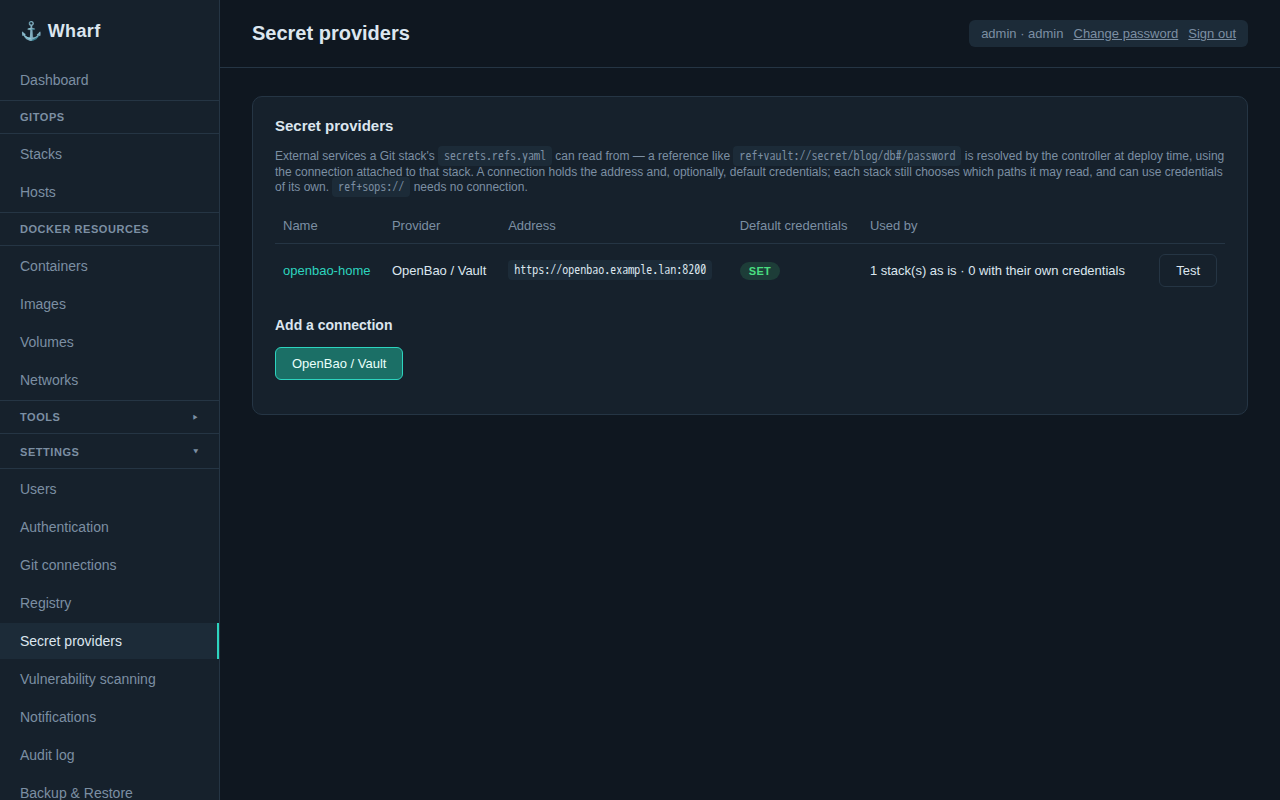
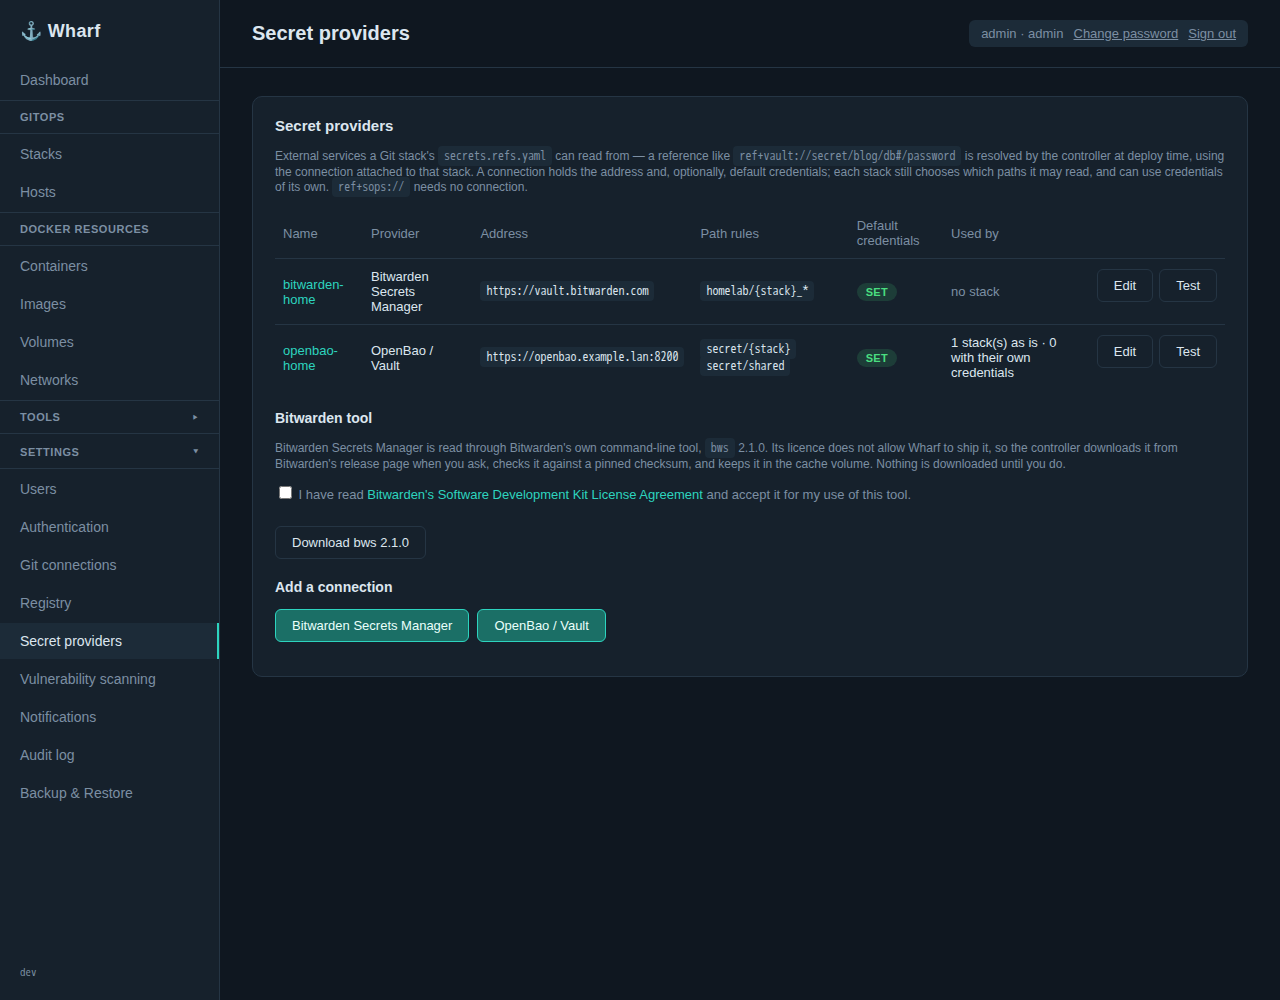
docs: refresh screenshots, show extra paths on the path rules page

diff --git a/docs/guide/path-rules.md b/docs/guide/path-rules.md
@@ -1,0 +1,176 @@
+# Path rules
+
+A Git stack's `secrets.refs.yaml` says which secrets it reads, and it lives in Git: whoever can push to that repository chooses the paths. **Path rules** are how you decide, once, on a [secret connection](/guide/secret-providers), what every stack that uses it may read, so that `blog` cannot read the secrets of `shop`, whatever its file says.
+
+A rule is checked by the controller on every deploy, before anything is read from the provider. A reference outside the rules fails the deployment without ever reaching OpenBao or Bitwarden.
+
+## Where to set them
+
+**Settings → Secret providers →** open a connection (or add one) **→ Path rules**. One rule per line. Rules are optional: a connection without any behaves as it always did, with allowed paths typed [stack by stack](/guide/secret-providers#_3-attach-it-to-a-stack).
+
+Once a connection has rules, attaching a stack needs no path at all. The stack's page shows what the rules give it, for instance `homelab/blog_*`, on the **Secret references** panel.
+
+## How a rule reads
+
+A rule is a path, split into segments by `/`, with two things you can use in it:
+
+| In a rule | Means |
+|---|---|
+| `{stack}` | The stack's id (see [below](#the-stack-id)) |
+| `*` | Any characters, **inside one segment** only. It never crosses a `/` |
+
+A rule allows what it names **and everything below it**: `secret/{stack}` lets the stack `blog` read `secret/blog` and `secret/blog/db`. Comparison is case-sensitive.
+
+## The stack id
+
+`{stack}` is the stack's **id**, not its name: the lowercase text in its address (`/stacks/my-blog`). Wharf makes it from the name when you create the stack, and it never changes afterwards, so renaming a stack does not break its secrets.
+
+| Stack name | Stack id |
+|---|---|
+| `blog` | `blog` |
+| `My Blog` | `my-blog` |
+| `Pi-hole` | `pi-hole` |
+| `Home Assistant` | `home-assistant` |
+| `uptime_kuma` | `uptimekuma` (characters other than letters, digits and `-` are dropped) |
+
+The binding form and the stack's page show the rule with the id already put in, so you can see exactly what a stack is given.
+
+## Examples
+
+### OpenBao or Vault: a folder per stack
+
+Rule: `secret/{stack}`
+
+You keep each stack's secrets under `secret/<stack>/…`:
+
+```yaml
+# stack "blog"
+DB_PASSWORD: ref+vault://secret/blog/db#/password
+```
+
+| Stack | Reference | Allowed |
+|---|---|---|
+| `blog` | `secret/blog/db` | yes |
+| `blog` | `secret/blog` | yes |
+| `blog` | `secret/shop/db` | no, another stack's folder |
+| `blog` | `secret/blogger/db` | no, a different folder that happens to start the same way |
+| `blog` | `secret/blog-staging/db` | no, that is the stack `blog-staging` |
+
+### OpenBao or Vault: a folder per stack, and one shared folder
+
+Rules:
+
+```
+secret/{stack}
+secret/shared
+```
+
+Every stack reads its own folder and `secret/shared` (an SMTP password everyone uses, say). A rule with no `{stack}` is simply a fixed path that every stack on the connection may read. Use this only for secrets that really are common to all of them.
+
+### Bitwarden Secrets Manager: a project per stack
+
+Rule: `{stack}`
+
+Name each project after its stack:
+
+```yaml
+# stack "blog"
+DB_PASSWORD: ref+bws://blog/db_password#/value
+```
+
+| Stack | Reference | Allowed |
+|---|---|---|
+| `blog` | `blog/db_password` | yes |
+| `shop` | `blog/db_password` | no |
+
+This needs one project per stack, which goes beyond Bitwarden's free plan (three projects at the time of writing).
+
+### Bitwarden Secrets Manager: one shared project, secrets named after the stack
+
+Rule: `homelab/{stack}_*`
+
+Everything lives in one project, `homelab`, and each secret's key starts with its stack's id and an underscore. This works on the free plan.
+
+```yaml
+# stack "blog"
+DB_PASSWORD:   ref+bws://homelab/blog_db_password#/value
+SMTP_PASSWORD: ref+bws://homelab/blog_smtp#/value
+```
+
+| Stack | Reference | Allowed |
+|---|---|---|
+| `blog` | `homelab/blog_db_password` | yes |
+| `blog` | `homelab/blog_smtp` | yes |
+| `blog` | `homelab/shop_smtp` | no, named after another stack |
+| `blog` | `homelab/blogger_db` | no |
+| `blog` | `homelab/blog-staging_db` | no, that is `blog-staging`'s |
+| `blog-staging` | `homelab/blog-staging_db` | yes |
+| `blog-staging` | `homelab/blog_db` | no |
+
+::: warning The rule is the only wall here
+Bitwarden gives a machine account access to a whole project. With one shared project the token used by Wharf can read every stack's secrets, and the rule is the only thing that keeps `blog` away from `shop`'s. If that is not enough, use a project per stack.
+:::
+
+### A shared secret on top of a stack's own
+
+Rules:
+
+```
+homelab/{stack}_*
+homelab/shared_*
+```
+
+Secrets named `shared_smtp`, `shared_registry`… in the same project are readable by every stack, next to each stack's own `blog_…` ones.
+
+### Any provider whose paths start with a container name
+
+Rule: `*/{stack}_*`
+
+The first segment can be a wildcard when it is not the part that tells stacks apart: `Perso/blog_db` and `Work/blog_db` are both allowed for `blog`, `Perso/shop_db` is not.
+
+## Extra paths for one stack
+
+Once a connection has rules, a stack can still be given more by an administrator, in the paths box of its attachment form (titled **Extra paths (optional)** when the connection has rules, **Allowed paths** when it has none): for instance `kv/common` for one stack that needs a secret the others do not.
+
+![The paths box of a stack whose connection has rules](/screenshots/path-rules-extra.png)
+
+- They add to the rules, they never replace them.
+- A lone `*` is refused there: it would give the stack everything, which is what rules exist to prevent.
+- If several stacks need the same extra path, a second rule on the connection (`kv/common`) is simpler.
+
+## Rules that are refused
+
+They are checked when you save, because each one would let a stack read what it should not:
+
+| Rule | Why it is refused |
+|---|---|
+| `{stack}-*` | `-` can be part of a stack id: `blog` would read `blog-staging-db`, which belongs to `blog-staging`. The id must be followed by `/`, `_` or the end of the rule. `{stack}x` and `{stack}*` fail for the same reason |
+| `*` or `*/*` | Allows every path. A rule made only of `*` is no rule |
+| `a**b` | Use a single `*` |
+| `../{stack}`, `a//b`, `/{stack}`, `{stack}/` | `..`, empty segments and leading or trailing slashes are not allowed |
+| `{name}_*` | `{stack}` is the only placeholder |
+
+`_` and `/` are safe after `{stack}` because a stack id never contains them.
+
+## When a deploy fails
+
+The deployment output names the key and the rule that applied:
+
+```
+DB_PASSWORD (bws://): path "homelab/shop_db" is outside the prefixes allowed for this stack (rule homelab/blog_*)
+```
+
+Check, in this order:
+
+1. **The id.** The rule has `blog` put in it, not the stack's name. `My Blog` is `my-blog`.
+2. **The spelling and the case.** `Blog_db` does not match `blog_*`.
+3. **The separator.** With `homelab/{stack}_*`, the key must start with `blog_`: `blog-db` or `blogdb` do not.
+4. **The number of segments.** For Bitwarden a reference is exactly `project/key`.
+5. **The rule is read at the next deploy.** Saving a rule changes nothing for a stack until it deploys again.
+
+## Good to know
+
+- **Adding rules to a connection that already has stacks:** a stack attached with a `*` before no longer gets everything once the connection has rules. A stack whose allowed paths are specific keeps them, on top of the rules.
+- **The Test button** only logs in to the provider; it does not check rules.
+- **Rules come on top of the provider's own protections**, they do not replace them. With OpenBao, a token limited by a policy to `secret/data/blog/*` is a stronger wall than any rule: use both.
+- **A connection a stack has all to itself** (its own address and credentials) can have its own rules too.

diff --git a/docs/guide/secret-providers.md b/docs/guide/secret-providers.md
@@ -13,6 +13,7 @@ Providers available today:
 | Scheme | Reads from | Needs a connection |
 |---|---|---|
 | `ref+vault://` | OpenBao or HashiCorp Vault, KV v1 or v2, token or AppRole login | yes |
+| `ref+bws://` | Bitwarden Secrets Manager, with a machine account | yes, and a [tool to download](#bitwarden-secrets-manager) |
 | `ref+sops://` | The stack's own `secrets.enc.yaml` | no |
 
 ## How a deploy resolves them
@@ -99,7 +100,7 @@ Changing a shared connection's address changes it for every stack that inherits 
 
 ![Attaching a connection to a stack](/screenshots/secret-binding.png)
 
-**Allowed paths** are required, one per line. A path covers itself and everything below it, compared by whole segments: `secret/blog` allows `secret/blog/db`, not `secret/blogger`. A reference outside them fails the deploy without ever reaching the server. This is what separates two stacks that share the same credentials, so keep it as tight as the stack allows (`*` allows every path).
+**Allowed paths** are required when the connection has no [path rules](/guide/path-rules), one per line. When it has some, the box is titled **Extra paths (optional)**: what you type is added to the rules, it does not replace them. A path covers itself and everything below it, compared by whole segments: `secret/blog` allows `secret/blog/db`, not `secret/blogger`. A reference outside them fails the deploy without ever reaching the server. This is what separates two stacks that share the same credentials, so keep it as tight as the stack allows (`*` allows every path).
 
 ## 4. Reference the secrets
 
@@ -108,6 +109,38 @@ DB_PASSWORD: ref+vault://secret/blog/db#/password
 ```
 
 `secret` is the KV mount, `blog/db` the secret's path and `password` the field. The other rules (all values are references, no query string, all or nothing) are on the [Secrets](/guide/secrets#choosing-keys-with-secrets-refs-yaml) page. A reference never carries an address or credentials, so a repository can only ask for a path, never redirect Wharf to another server.
+
+## Path rules: limit every stack at once
+
+By default each stack lists, when you attach it, the paths it may read. A connection can instead carry **path rules**, one per line, that apply to every stack on it with no path to type stack by stack: `secret/{stack}` gives each stack its own folder, `homelab/{stack}_*` gives each one the secrets named after it in a shared project. They are checked by the controller on every deploy, so a `secrets.refs.yaml` pushed to Git cannot step outside them.
+
+The syntax, the rules that are refused, and worked examples for OpenBao and Bitwarden are on their own page: **[Path rules](/guide/path-rules)**.
+
+## Bitwarden Secrets Manager
+
+References read `ref+bws://<project>/<secret key>#/value`. A Secrets Manager secret has a key, a value and a note, so the field is `value` or `note`:
+
+```yaml
+DB_PASSWORD:   ref+bws://blog/db_password#/value
+SMTP_PASSWORD: ref+bws://homelab/blog_smtp#/value
+```
+
+**Bitwarden's tool is downloaded, not bundled.** Wharf reads Secrets Manager through Bitwarden's own `bws` command-line tool, whose licence does not allow redistributing it. Under **Settings → Secret providers**, the **Bitwarden tool** section shows the licence and a checkbox; once you accept, the controller downloads the pinned release from Bitwarden's release page, checks its SHA-256, and keeps it in the cache volume (`/cache`). Nothing is downloaded until you do, and the downloads of other tools are unaffected. This is not legal advice: read the licence yourself.
+
+**Add a connection** with a machine account's access token (**Secrets Manager → Machine accounts**), and pick the region: `us` (`vault.bitwarden.com`), `eu` (`vault.bitwarden.eu`) or `custom` with a server URL. Give the machine account read access to the projects you use.
+
+**One project per stack, or a shared one.** Both are a [path rule](/guide/path-rules):
+
+- **A project per stack**: rule `{stack}`, and name each project after its stack (`blog`). Nothing to type when you attach a stack. This needs one project per stack, which is more than the free plan's three.
+- **A shared project**: rule `homelab/{stack}_*`, and name each secret after its stack (`blog_db_password`, `blog_smtp`) inside the project `homelab`. This works on the free plan. Note that the machine account then reads the whole project, so the rule is the only thing keeping one stack from another's secrets.
+
+Things to know:
+
+- **Names must be unique.** Bitwarden does not enforce it. If two projects share a name, or two secrets share a key in a project, the reference fails and says so, instead of picking one.
+- **A secret is one field.** Unlike OpenBao, where a path holds several, a Bitwarden secret has a single value (and a note). A project name or a secret key containing `/` cannot be referenced.
+- **Cloud only for an individual.** Self-hosting Secrets Manager is limited to Bitwarden's Enterprise plan, so the controller must reach `vault.bitwarden.com` (or `.eu`). Behind a private CA, set `SSL_CERT_FILE` on the controller, as for [vulnerability scanning](/guide/vulnerability-scanning).
+- **Free plan limits:** at the time of writing, three projects and three machine accounts. Check Bitwarden's current plans.
+- The access token is write-only, and is passed to `bws` in its environment, never on the command line.
 
 ## Errors you may see
 

diff --git a/docs/guide/secrets.md b/docs/guide/secrets.md
@@ -104,7 +104,7 @@ DB_PASSWORD: ref+sops://secrets.enc.yaml#/DB_PW
 API_KEY:     ref+sops://secrets.enc.yaml#/API_KEY
 ```
 
-A reference reads `ref+<scheme>://<path>#/<field>`. The left side is the variable your compose file sees, so a key can be renamed on the way (`DB_PW` above becomes `DB_PASSWORD`). Two schemes exist: `sops` reads the stack's own `secrets.enc.yaml` (either format, and only that file), and `vault` reads from OpenBao or HashiCorp Vault through a connection you set up once, see [Secret providers](/guide/secret-providers). Any other scheme fails the deploy with a clear message.
+A reference reads `ref+<scheme>://<path>#/<field>`. The left side is the variable your compose file sees, so a key can be renamed on the way (`DB_PW` above becomes `DB_PASSWORD`). Three schemes exist: `sops` reads the stack's own `secrets.enc.yaml` (either format, and only that file), `vault` reads from OpenBao or HashiCorp Vault, and `bws` from Bitwarden Secrets Manager, through a connection you set up once, see [Secret providers](/guide/secret-providers). Any other scheme fails the deploy with a clear message.
 
 The rules are strict on purpose:
 
